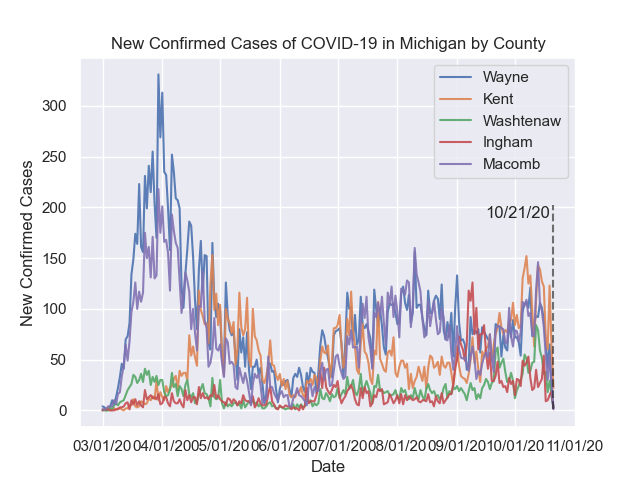
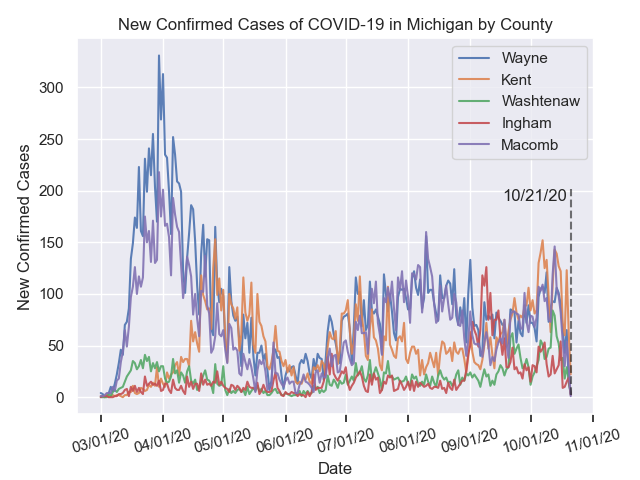
small display tweaks to covid graph

diff --git a/assets/update.py b/assets/update.py
@@ -492,11 +492,15 @@ class CSE231GitHub(object):
         ax.text(x=d2 - timedelta(2), y=190, s=d2.strftime('%m/%d/%y'), ha='right')
 
         ax.xaxis.set_major_formatter(DateFormatter('%m/%d/%y'))
+        ax.tick_params(axis='x', top=False, reset=True)
         ax.set_title('New Confirmed Cases of COVID-19 in Michigan by County')
         ax.set_xlabel('Date')
         ax.set_ylabel('New Confirmed Cases')
         ax.legend()
 
+        plt.tight_layout()
+        plt.xticks(rotation=15)
+        # plt.show()
         plt.savefig('assets/images/covid_data.png')
 
     def __process_html_calendar(self, calendar:dict) -> None:
@@ -675,6 +679,6 @@ if __name__ == "__main__":
     github = CSE231GitHub()
 
     # github.package('lab')
-    # github.update_readme()
+    github.update_readme()
     # github.update_project_files(True)
-    github.update_all(True)
+    # github.update_all(True)

diff --git a/README.md b/README.md
@@ -50,7 +50,7 @@ Your co-pilot on this expedition through CSE231 will be the course schedule, whi
 
 ## Course Schedule
 
-Last Refresh: 10/21/2020 03:53 PM EST
+Last Refresh: 10/21/2020 04:25 PM EST
 
 The assignments listed on the schedule have links to the corresponding website they are hosted on. Links to Mimir and D2L assignments are not direct because a login is required. You can hover over the assignment's text to see its precise due date (sorry mobile users).
 
